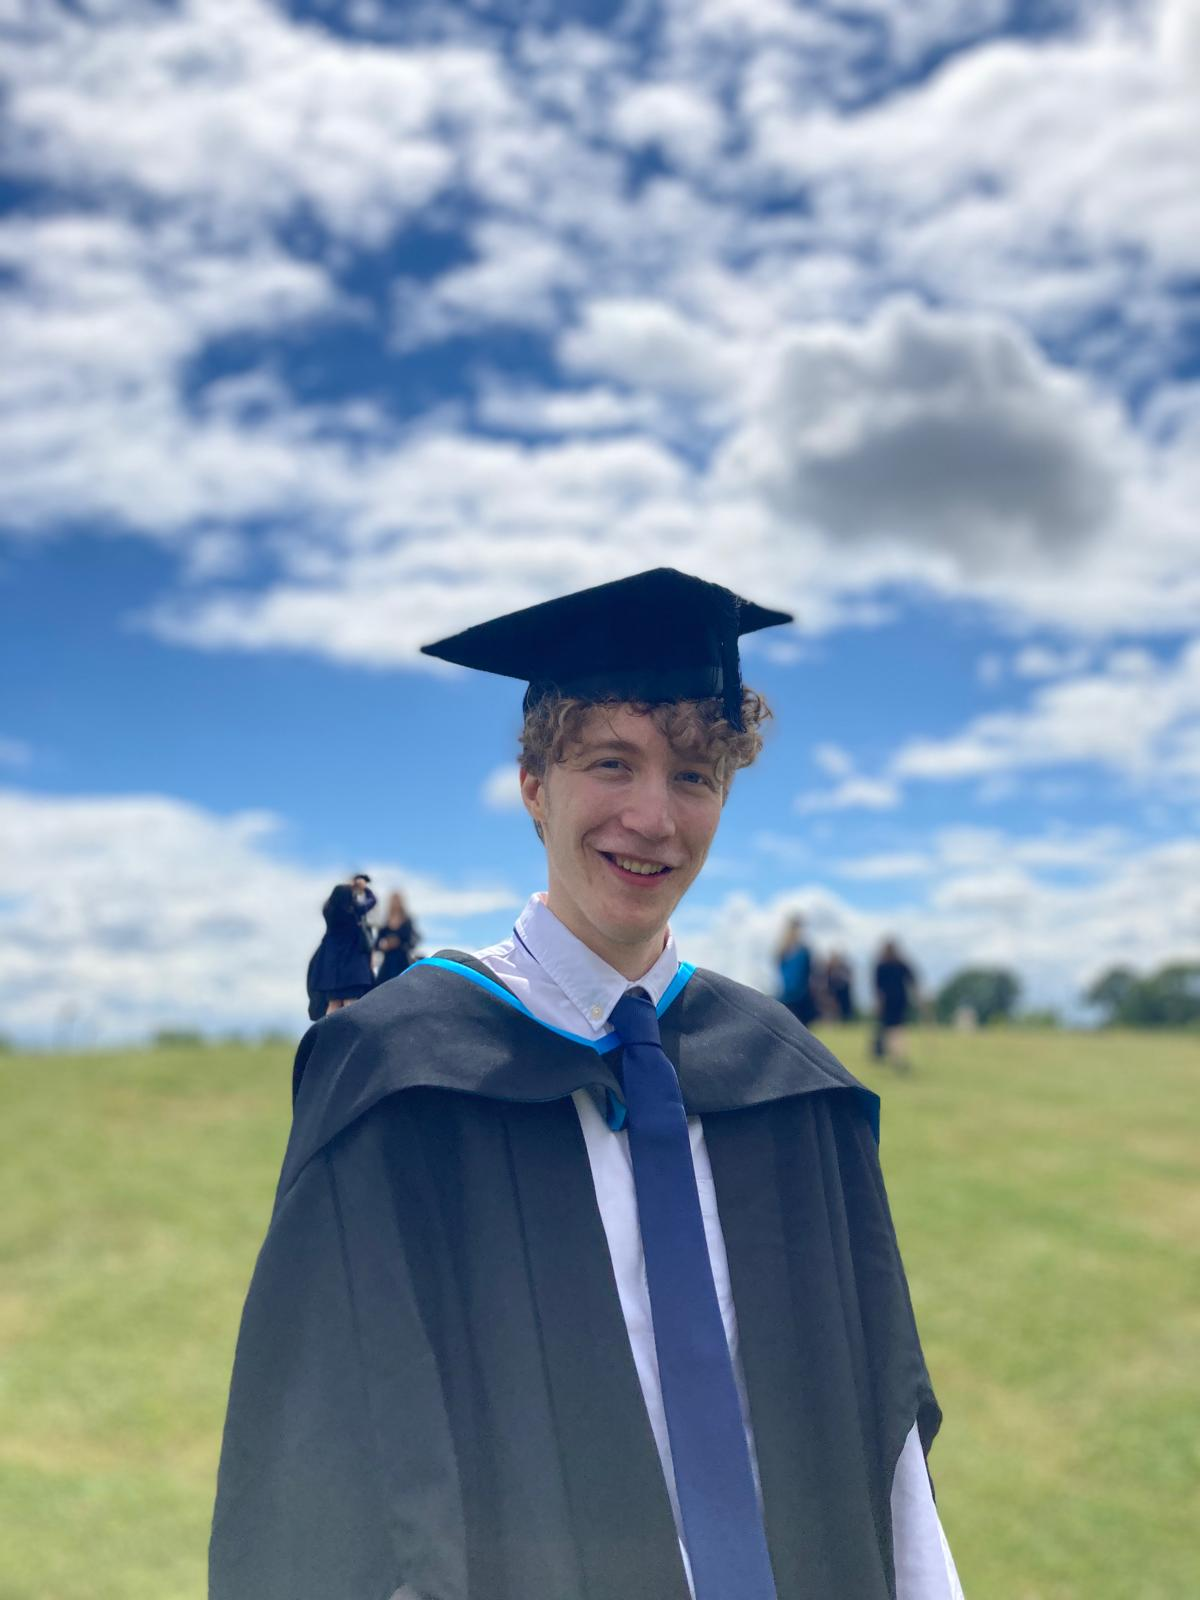
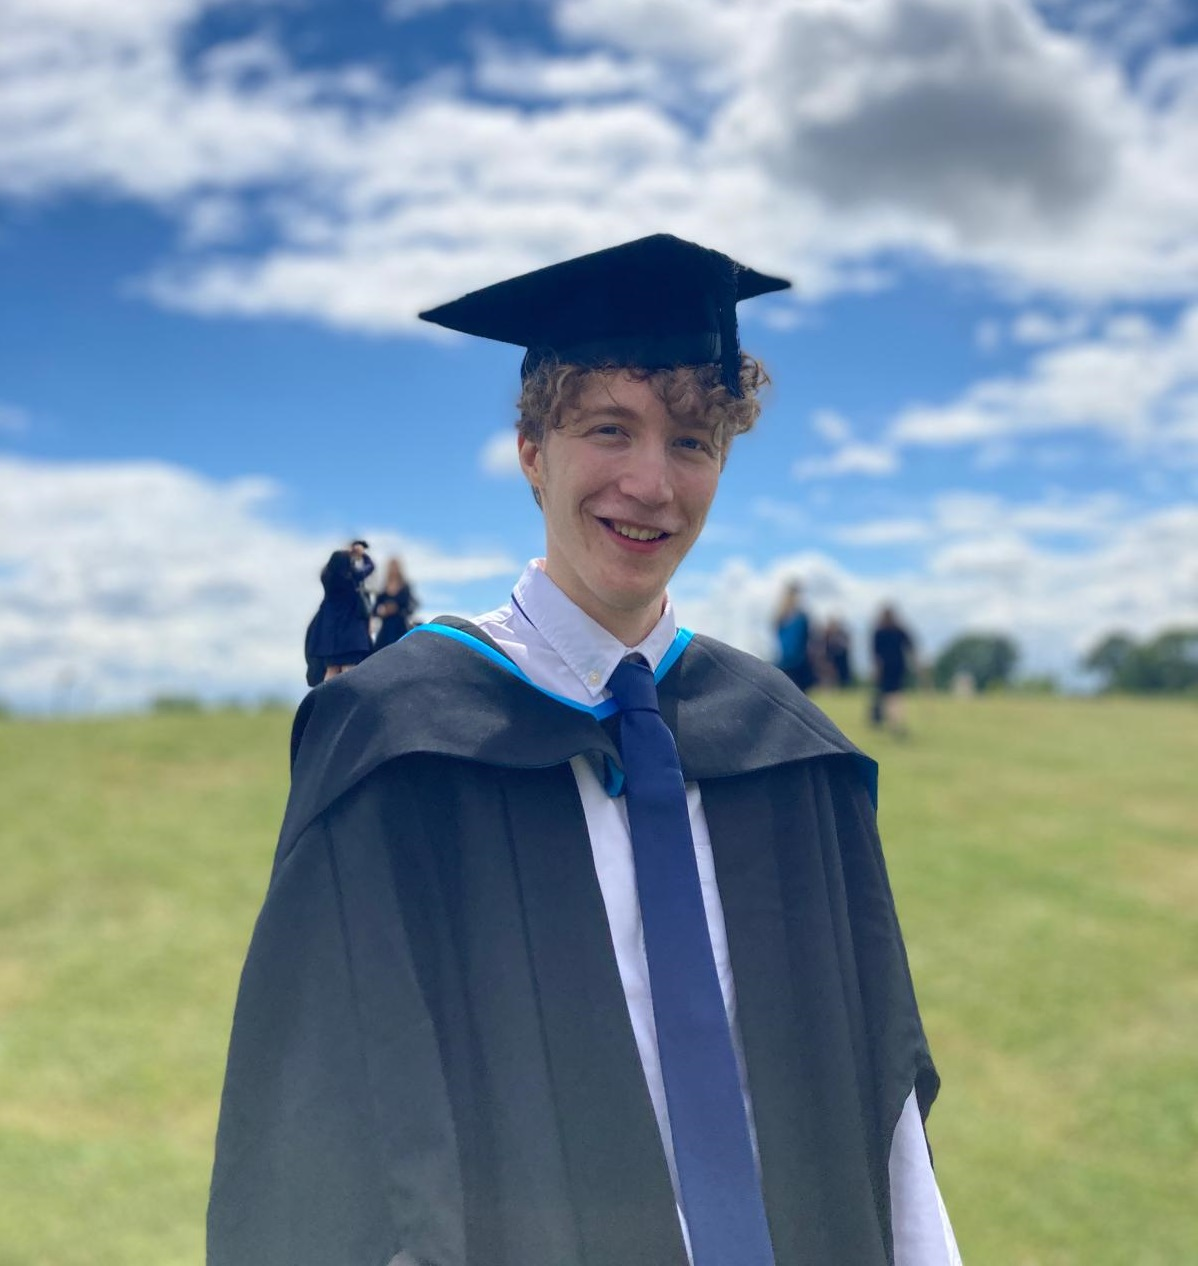
Messing around to get text to flow around

diff --git a/frontend/themes/basetheme/styles.css b/frontend/themes/basetheme/styles.css
@@ -73,6 +73,29 @@
 }
 
 @media screen and (max-width:1920px) {
+    .about-me-block, .hobby-block {
+        width:85%;
+    }
+    .education-block {
+        width:95%;
+    }
+    .education-image {
+        width:400px;
+        height:600px;
+    }
+    .profile-image, .hobby-image {
+        width:50%;
+        height:50%;
+    }
+
+    .text-container {
+        width:100%;
+        flex-shrink: 1;
+        flex-grow: 1;
+    }
+    .about-me-title, .about-me-text {
+        font-size:18px;
+    }
     .article-thumbnail {
         width: 50%;
         margin:auto;
@@ -105,6 +128,16 @@
 }
 
 @media screen and (max-width: 1600px) {
+    .about-me-block, .hobby-block {
+        width:80%;
+    }
+    .education-block {
+        width:95%;
+    }
+
+    .about-me-title, .about-me-text {
+        font-size:16px;
+    }
     .linkedin-anchor, .github-anchor, .youtube-anchor {
         width:45px;
         padding: 5px;
@@ -134,6 +167,13 @@
 }
 
 @media screen and (max-width: 1400px) {
+    .about-me-block, .education-block, .hobby-block {
+        width:87%;
+    }
+    .about-me-title, .about-me-text {
+        font-size:15px;
+    }
+
     .linkedin-anchor, .github-anchor, .youtube-anchor {
         width:42px;
         padding: 5px;
@@ -163,6 +203,12 @@
 }
 
 @media screen and (max-width:1200px) {
+    .about-me-block, .education-block, .hobby-block {
+        width:90%;
+    }
+    .about-me-title, .about-me-text {
+        font-size:14px;
+    }
 
     .linkedin-anchor, .github-anchor, .youtube-anchor {
         width:40px;
@@ -193,6 +239,14 @@
 }
 
 @media screen and (max-width: 1000px) {
+    .about-me-block, .education-block, .hobby-block {
+        width:92%;
+    }
+    .about-me-title, .about-me-text {
+        font-size:13px;
+    }
+
+
     .linkedin-anchor, .github-anchor, .youtube-anchor {
         width:38px;
         padding: 4px;
@@ -222,6 +276,13 @@
 }
 
 @media screen and (max-width: 800px) {
+    .about-me-block, .education-block, .hobby-block {
+        width:94%;
+    }
+    .about-me-title, .about-me-text {
+        font-size:11px;
+    }
+
     .linkedin-anchor, .github-anchor, .youtube-anchor {
         width:35px;
         padding: 3px;
@@ -251,6 +312,13 @@
 }
 
 @media screen and (max-width: 600px) {
+    .about-me-block, .education-block, .hobby-block {
+        width:96%;
+    }
+    .about-me-title, .about-me-text {
+        font-size:11px;
+    }
+
     .linkedin-anchor, .github-anchor, .youtube-anchor {
         width:28px;
         padding: 3px;
@@ -581,7 +649,7 @@ vaadin-multi-select-combo-box-item[selected] {
 }
 
 .about-me-block, .education-block, .hobby-block {
-    width: 80%;
+    /*width: 80%;*/
     margin:auto;
     padding:10px;
     border-radius: 10px; /* Rounded corners */
@@ -593,14 +661,16 @@ vaadin-multi-select-combo-box-item[selected] {
     transition: background-color 0.5s ease;
 }
 
-.education-image, .profile-image, .hobby-image {
+/*.education-image, .profile-image, .hobby-image {
     width:50%;
-}
+    height:50%;
+} */
 
-.education-image {
-    width:50;
-}
+ .text-container {
+        flex-grow:1;
+        display:flex;
 
+        }
 .cv-block {
     width: 50px;
     margin: auto;
@@ -612,10 +682,21 @@ vaadin-multi-select-combo-box-item[selected] {
 
 .about-me-title, .about-me-text {
    font-family:"InconsolataRegular",sans-serif;
-
+   white-space: normal;
 }
 .pdf-viewer {
     width: 50%;
     margin:auto;
 }
 
+.container {
+}
+
+.image {
+    float: left;
+    margin-right: 20px;
+}
+
+.text {
+    font-size: 50px;
+}

diff --git a/src/main/java/com/gabeWebTest/webTest/views/AboutMeView.java b/src/main/java/com/gabeWebTest/webTest/views/AboutMeView.java
@@ -33,6 +33,7 @@ public class AboutMeView extends AppLayout {
         addToDrawer(mainDrawer.createDrawerContent());
         VerticalLayout contentView = new VerticalLayout();
         contentView.addClassName("about-me-content");
+        contentView.add(testContainer());
         contentView.add(getAboutMeBlock());
         contentView.add(getEducationBlock());
         contentView.add(getHobbyBlock());
@@ -46,7 +47,7 @@ public class AboutMeView extends AppLayout {
         return pdfViewer;
     }
     private Image getProfileImage() {
-        Image profileImage = new Image("img/aboutMe/gabrielZoo.jpg", "Gabriel Profile picture");
+        Image profileImage = new Image("img/aboutMe/gabeCyprus.jpg", "Gabriel Profile picture");
         profileImage.addClassName("profile-image");
         return profileImage;
     }
@@ -80,12 +81,37 @@ public class AboutMeView extends AppLayout {
         return titleAndTextBlock;
     }
 
+    private Div testContainer() {
+        // Create a container for the image and text
+        Div container = new Div();
+        container.addClassName("container");
+
+        // Image
+        Image image = getProfileImage();
+        image.setWidth("150px"); // Set width of the image
+        Div imageDiv = new Div(image);
+        imageDiv.addClassName("image");
+
+        // Text
+        Paragraph testParagraph = new Paragraph();
+        testParagraph.addClassName("text");
+        testParagraph.setText("Lorem ipsum dolor sit amet, consectetur adipiscing elit. Fusce eget felis sed nisi ullamcorper hendrerit vel vel odioLorem ipsum dolor sit amet, consectetur adipiscing elit. Fusce eget felis sed nisi ullamcorper hendrerit vel vel odioLorem ipsum dolor sit amet, consectetur adipiscing elit. Fusce eget felis sed nisi ullamcorper hendrerit vel vel odioLorem ipsum dolor sit amet, consectetur adipiscing elit. Fusce eget felis sed nisi ullamcorper hendrerit vel vel odio.");
+        // Add the image and text divs to the container
+        container.add(imageDiv, testParagraph);
+
+        return container;
+    }
+
     private HorizontalLayout getEducationBlock() {
         HorizontalLayout educationBlock = new HorizontalLayout();
         educationBlock.addClassName("education-block");
         educationBlock.getStyle().set("margin","auto");
         educationBlock.add(getEducationImage());
-        educationBlock.add(getEducationTextBlock());
+        Div textContainer = new Div();
+        textContainer.add(getEducationTextBlock()); // Add the VerticalLayout containing the text
+        educationBlock.add(textContainer);
+        textContainer.addClassName("text-container");
+
         return educationBlock;
     }
 
@@ -107,11 +133,10 @@ public class AboutMeView extends AppLayout {
                 "In the later years of my degree I specialised within Mathematical Analysis and Abstract Algebra.";
         String educationText3 = "Following my undergraduate degree I started on a master's program between October 2021 and September 2022. During the summer of 2021, before the start of my next academic year, I found myself increasingly drawn to the fields of computer science and artificial intelligence. " +
                 "Recognizing the growing importance and applications of these disciplines, I decided to pivot towards a more hands-on researched based MSc in Data Analytics. "+
-                "Throughout my MSc program, I learnt various data analytic techniques including but not limited to: .";
-        Paragraph paragraph1 = new Paragraph();
-        Paragraph paragraph2 = new Paragraph();
-        Paragraph paragraph3 = new Paragraph();
-        Paragraph paragraph4 = new Paragraph();
+                "Throughout my MSc program, I learnt various data analytic techniques including but not limited to: ";
+        Span paragraph1 = new Span();
+        Span paragraph2 = new Span();
+        Span paragraph3 = new Span();
 
         paragraph1.add(educationText1);
         paragraph1.addClassName("about-me-text");
@@ -144,7 +169,7 @@ public class AboutMeView extends AppLayout {
     }
 
     private Image getHobbyImage() {
-        Image hobbyImage = new Image("img/aboutMe/smashPlaying.png","Gabriel playing smash");
+        Image hobbyImage = new Image("img/aboutMe/smashTournament.jpg","Gabriel playing smash");
         hobbyImage.addClassName("hobby-image");
         return hobbyImage;
     }
